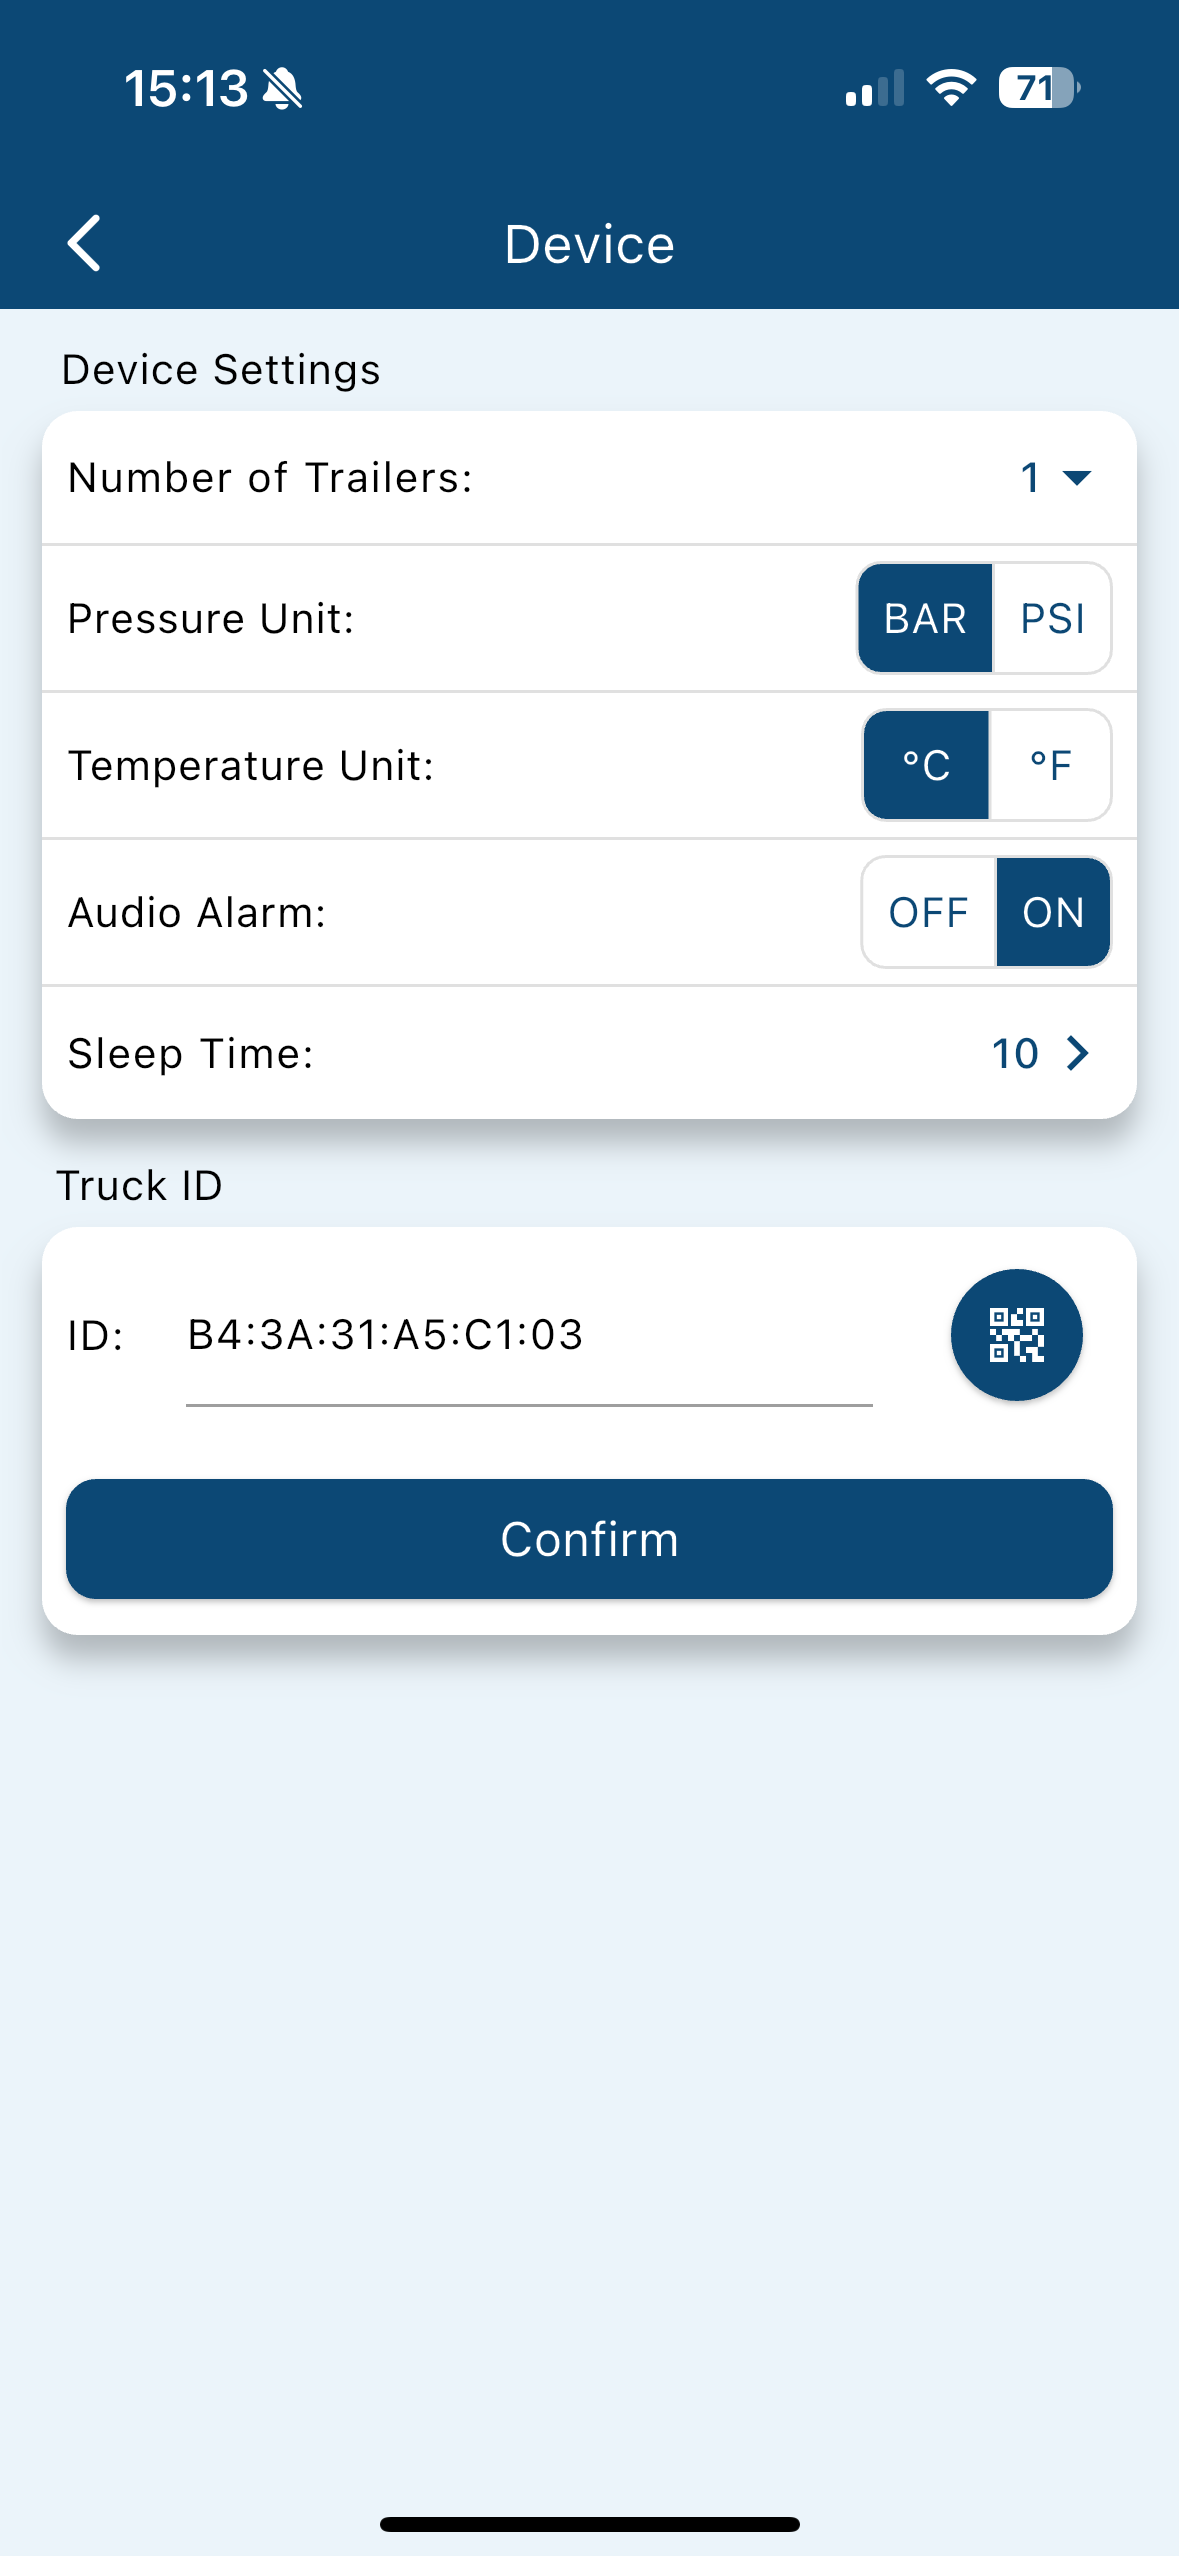
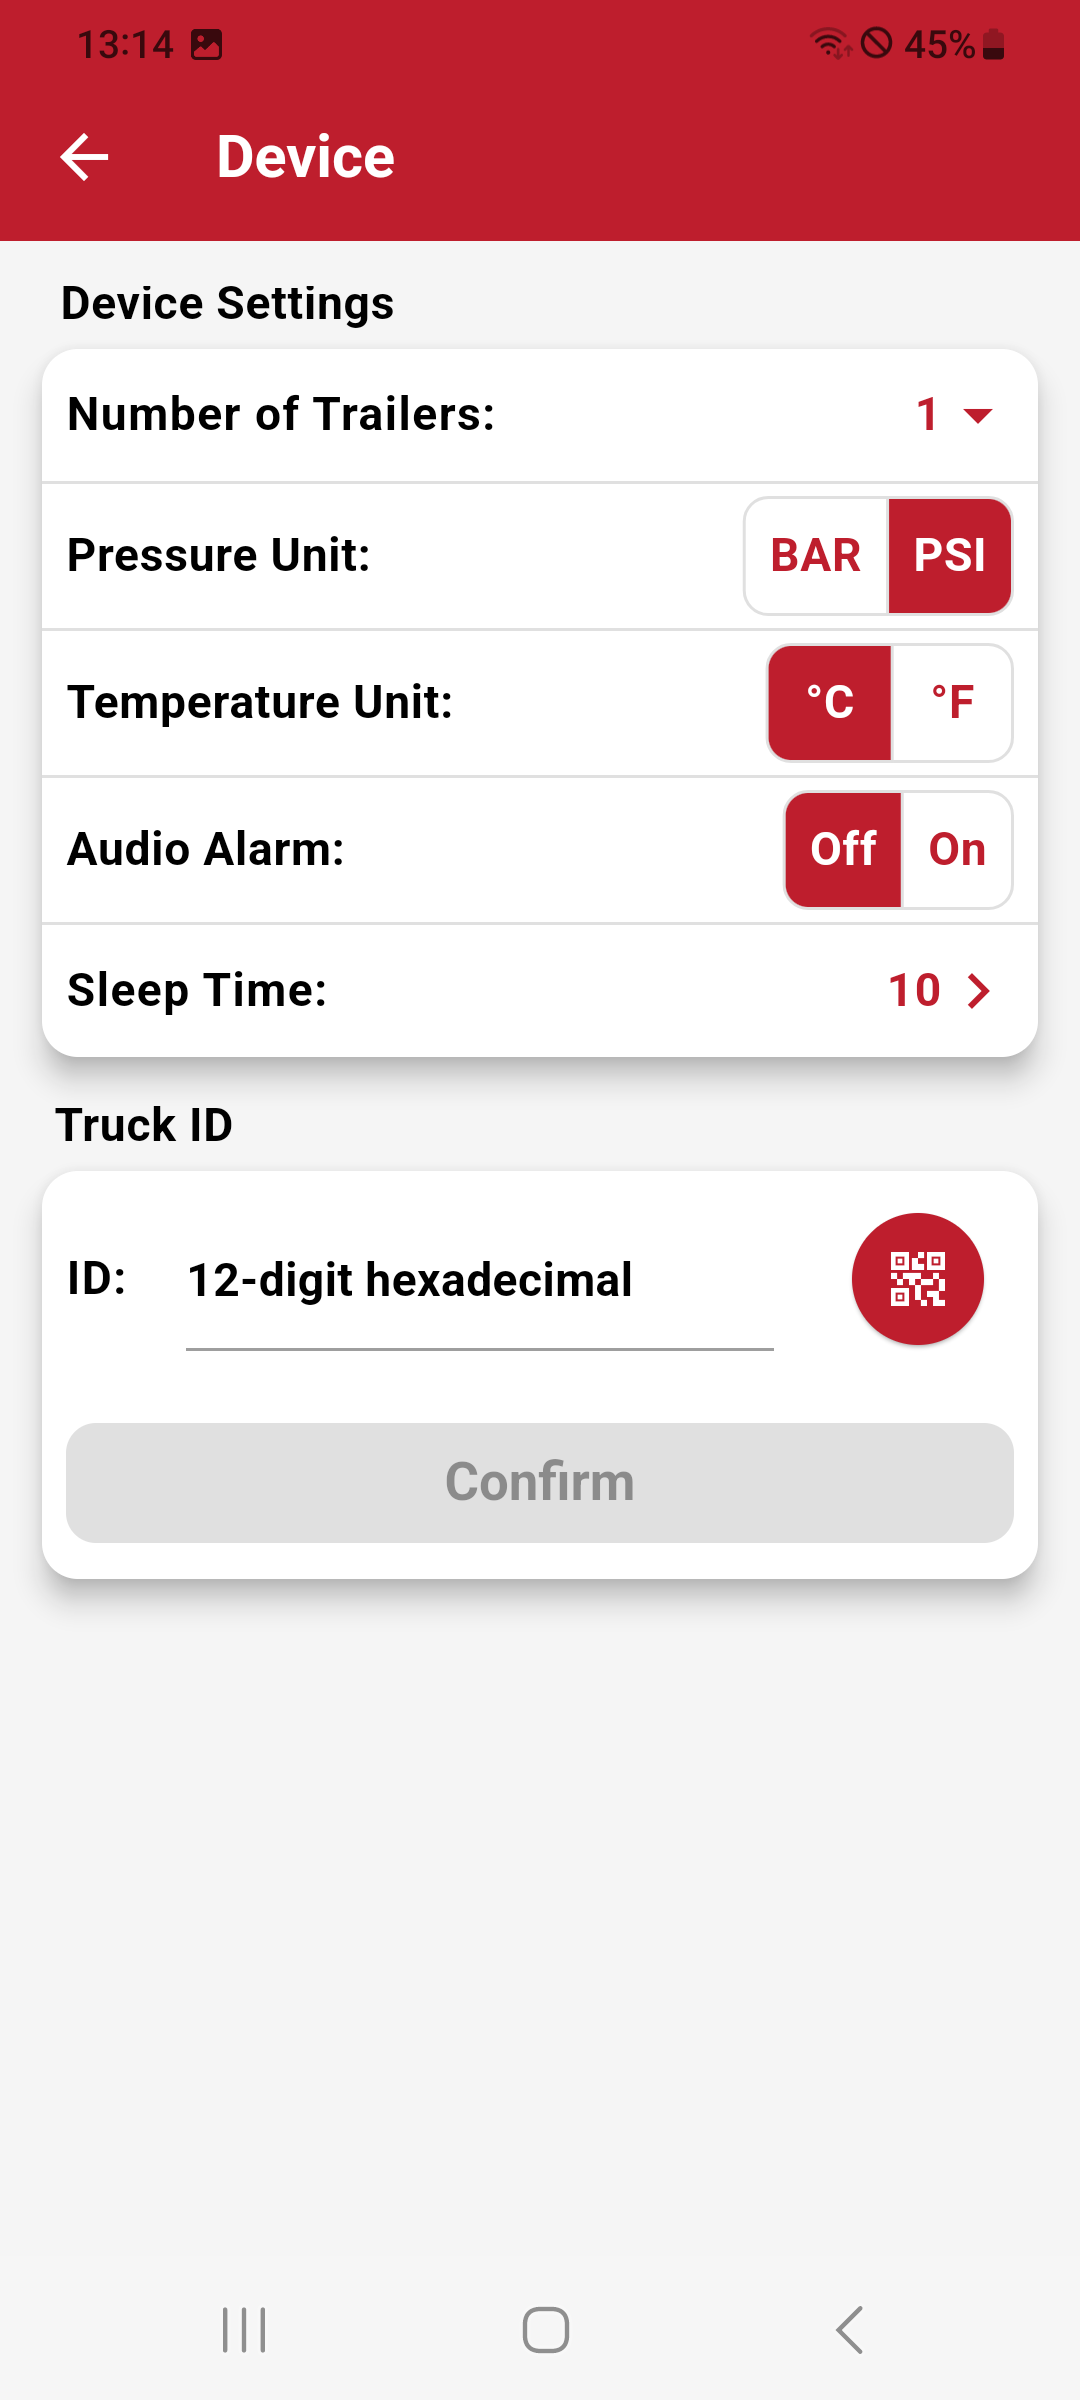
Tiresense pictures and colors

diff --git a/docs/styles/extra.css b/docs/styles/extra.css
@@ -5,5 +5,66 @@
 }
 
 :root {
-  --md-primary-fg-color:        #0C4875;
+  --md-primary-fg-color:        #bf1e2e;
+}
+
+/* Change input field underline color */
+.md-typeset input, .md-typeset textarea {
+    border-bottom: 2px solid #bf1e2e !important;
+}
+
+/* Force h1 color change */
+.md-typeset h1 {
+    color: #000000 !important;
+	font-weight: 500 !important; /* Stronger bold effect */
+}
+
+h1, h2, h3, h4, h5, h6 {
+  color: #bf1e2e; /* Headings  */
+}
+
+/* Add a separator only below main menu titles */
+.md-nav__item > label.md-nav__link:not(.md-nav__link--active) {
+    border-bottom: 1px solid #ccc !important; /* Gray separator */
+	color: #000000 !important; /* Adjust color if needed */
+}
+
+/* Increase the boldness of the active tab in the header */
+.md-tabs__item--active {
+    font-weight: 800 !important; /* Stronger bold effect */
+    color: #ffffff !important; /* Adjust color if needed */
+}
+
+.md-header__button.md-logo img {
+    height: 40px; /* Adjust based on your logo size */
+}
+
+
+/* Ensure the sidebar text is readable */
+.md-nav__link:hover  {
+  color: #bf1e2e !important;
+}
+
+/* Ensure the sidebar text is readable */
+.md-nav__link--active  {
+  font-weight: 800 !important; /* Stronger bold effect */
+}
+
+.md-nav__title {
+  color: #000000 !important;
+  border-bottom: 1px solid #ccc !important; /* Gray separator */
+}
+
+.md-nav__title[for="__drawer"][for="__drawer"] {
+  color: #ffffff !important;
+}
+
+.md-button:hover,
+.md-button--primary:hover {
+    background-color: #000000 !important; /* Change to your preferred hover color */
+    color: #ffffff !important; /* Ensure text color is readable */
+}
+
+.md-button {
+    border: 0px !important; /* Change this to your preferred border color */
 }

diff --git a/docs/vehicle-screen/vehicle-screen.md b/docs/vehicle-screen/vehicle-screen.md
@@ -56,6 +56,6 @@ If the device supports a Unfiltered mode, the following features are available:
 
 | **Vehicle Menu**       |**Setup not complete** (black tires)      |
 |:----------------------:|:----------------------:|
-| ![Vehicle Menu](images/vehicleMenu.PNG){width="200px"} |![Setup not complete](images/vehicleScreenNotDone.PNG){width="200px"} |
+| ![Vehicle Menu](images/vehicleMenu.PNG){width="200px" style="border: 1px solid black; border-radius: 30px; padding: 5px; background-color: #000;"} |![Setup not complete](images/vehicleScreenNotDone.PNG){width="200px" style="border: 1px solid black; border-radius: 30px; padding: 5px; background-color: #000;"} |
 | **Setup complete** (green tires)       |**Unfiltered Devices**       |
-| ![Setup complete](images/vehicleScreenDone.PNG){width="200px"} |![Unfiltered Devices](images/vehicleScreenUnfiltered.PNG){width="200px"} |
+| ![Setup complete](images/vehicleScreenDone.PNG){width="200px" style="border: 1px solid black; border-radius: 30px; padding: 5px; background-color: #000;"} |![Unfiltered Devices](images/vehicleScreenUnfiltered.PNG){width="200px" style="border: 1px solid black; border-radius: 30px; padding: 5px; background-color: #000;"} |

diff --git a/docs/monitor-screen.md b/docs/monitor-screen.md
@@ -62,6 +62,6 @@ This mode provides a raw, unstructured view of sensor data without vehicle-speci
 
 | **Filtered Device (all OK and Trailer)**       |**Filtered Device (warning)**     |
 |:----------------------:|:----------------------:|
-| ![iltered Device](images/monitorOk.PNG){width="200px"} |![Filtered Device 1](images/monitorWarning.PNG){width="200px"} |
+| ![iltered Device](images/monitorOk.PNG){width="200px" style="border: 1px solid black; border-radius: 30px; padding: 5px; background-color: #000;"} |![Filtered Device 1](images/monitorWarning.PNG){width="200px" style="border: 1px solid black; border-radius: 30px; padding: 5px; background-color: #000;"} |
 | **Tire Details**    |**Sensor List (unfiltered device)**       |
-| ![Tire Details](images/tireInfo.PNG){width="200px"} |![Sensor List](images/monitorUnfiltered.PNG){width="200px"} |
+| ![Tire Details](images/tireInfo.PNG){width="200px" style="border: 1px solid black; border-radius: 30px; padding: 5px; background-color: #000;"} |![Sensor List](images/monitorUnfiltered.PNG){width="200px" style="border: 1px solid black; border-radius: 30px; padding: 5px; background-color: #000;"} |

diff --git a/docs/index.md b/docs/index.md
@@ -3,16 +3,16 @@ pdf: true
 ---
 <!-- markdownlint-disable no-inline-html -->
 
-# NLP Control Center Manual
+# Tiresens Setup Manual
 
-The NLP Control Center app is designed to simplify the configuration, monitoring, and maintenance of TPMS (Tire Pressure Monitoring System) receivers and sensors.
+The **Tiresens Setup** app streamlines the configuration, monitoring, and maintenance of TPMS (Tire Pressure Monitoring System) receivers and sensors.
 
 ## Key Features
 
-- Detecting and connecting to nearby receivers via BLE.
-- Updating firmware and customizing settings.
-- Diagnosing device issues and viewing sensor details.
+- **Seamless Connectivity:** Detect and connect to nearby receivers via BLE.
+- **Effortless Updates:** Update firmware and customize device settings.
+- **Advanced Diagnostics:** Troubleshoot issues and access detailed sensor information.
 
-![App Screenshot](images/nlp_icon.png){ width="200px"}
+![App Screenshot](images/tiresens_sq.png){ width="200px"}
 
 <span class="page-break"></span>

diff --git a/docs/setup-screen/device.md b/docs/setup-screen/device.md
@@ -42,9 +42,10 @@ For CAN only:
 - **CAN Speed:** Selectable speeds of 250 kbps or 500 kbps, accommodating different CAN network standards.
 - **CAN Address:** Configurable CAN IDs to avoid conflicts and ensure proper communication in multi-device environments.
 
-## Device Name 
-- **Device Name:** Matching the unique identifier of the vehicle in the fleet.
+Device Name:
+
+- **Device Name:** Matching the unique identifier of the vehicle in the fleet
 
 | **Device Menu**       | **Trailer Menu**     |
 |:----------------------:|:--------------------:|
-| ![Update Menu](images/device_menu.PNG){width="200px"} | ![Confirm Update](images/trailer_menu.PNG){width="200px"} |
+| ![Update Menu](images/device_menu.PNG){width="200px" style="border: 1px solid black; border-radius: 30px; padding: 5px; background-color: #000;"} | ![Confirm Update](images/trailer_menu.PNG){width="200px" style="border: 1px solid black; border-radius: 30px; padding: 5px; background-color: #000;"} |

diff --git a/docs/inCabDisplay.md b/docs/inCabDisplay.md
@@ -56,4 +56,4 @@ After configuring the settings, the in-cab display must be linked to a truck rec
 
 | **In-Cab Display Device Name**       |**In-Cab Display Device Name**     |
 |:----------------------:|:----------------------:|
-| ![In-Cab Display Device Name](images/inCabName.PNG){width="200px"} |![In-Cab Display Device Name](images/inCabSettings.PNG){width="200px"} |
+| ![In-Cab Display Device Name](images/inCabName.PNG){width="200px" style="border: 1px solid black; border-radius: 30px; padding: 5px; background-color: #000;"} |![In-Cab Display Device Name](images/inCabSettings.PNG){width="200px" style="border: 1px solid black; border-radius: 30px; padding: 5px; background-color: #000;"} |

diff --git a/docs/vehicle-screen/editVehicle.md b/docs/vehicle-screen/editVehicle.md
@@ -36,4 +36,4 @@ If the R141 Support setting is enabled, the available configurations are adjuste
 
 | **Select Vehicle Layout**       |**Set Warning Thresholds**      |
 |:----------------------:|:----------------------:|
-| ![Select Vehicle Layout](images/selectVehicleLayout.PNG){width="200px"} |![Set Warning Thresholds](images/setWarning.PNG){width="200px"} |
+| ![Select Vehicle Layout](images/selectVehicleLayout.PNG){width="200px" style="border: 1px solid black; border-radius: 30px; padding: 5px; background-color: #000;"} |![Set Warning Thresholds](images/setWarning.PNG){width="200px" style="border: 1px solid black; border-radius: 30px; padding: 5px; background-color: #000;"} |

diff --git a/docs/setup-screen/update.md b/docs/setup-screen/update.md
@@ -15,4 +15,4 @@ A red dot on the **Setup** or **Update Menu** icon indicates available firmware 
 
 | **Update Menu**       |**Update Available**       |
 |:----------------------:|:----------------------:|
-| ![Update Menu](images/update_menu.PNG){width="200px"} |![Update Available](images/updateAvailable.PNG){width="200px"} |
+| ![Update Menu](images/update_menu.PNG){width="200px" style="border: 1px solid black; border-radius: 30px; padding: 5px; background-color: #000;"} |![Update Available](images/updateAvailable.PNG){width="200px" style="border: 1px solid black; border-radius: 30px; padding: 5px; background-color: #000;"} |

diff --git a/docs/setup-screen/lockWithPin.md b/docs/setup-screen/lockWithPin.md
@@ -11,4 +11,4 @@ Secure your receiver by setting a 4-digit PIN:
   
 | **Locked Device**     |   |
 |:----------------------:|:--------------------:|
-| ![Locked Device 01](images/lockedDevice01.PNG){width="200px"} | ![Locked Device 02](images/lockedDevice02.PNG){width="200px"} |
+| ![Locked Device 01](images/lockedDevice01.PNG){width="200px" style="border: 1px solid black; border-radius: 30px; padding: 5px; background-color: #000;"} | ![Locked Device 02](images/lockedDevice02.PNG){width="200px" style="border: 1px solid black; border-radius: 30px; padding: 5px; background-color: #000;"} |

diff --git a/docs/setup-screen/appSettings.md b/docs/setup-screen/appSettings.md
@@ -1,6 +1,4 @@
----
-pdf: true
----
+
 # App Settings
 
 Customize your app preferences:
@@ -13,6 +11,4 @@ Customize your app preferences:
 
     Please talk to your distributor for details!
 
-| **App Settings Menu**       |
-|:----------------------:|
-| ![App Settings Menu](images/appSettings_menu.PNG){width="200px"} |
+![App Screenshot](images/appSettings_menu.PNG){ width="200px" style="border: 1px solid black; border-radius: 30px; padding: 5px; background-color: #000;"}

diff --git a/docs/vehicle-screen/odometer.md b/docs/vehicle-screen/odometer.md
@@ -19,4 +19,4 @@ Use the device's camera to scan the QR code associated with the odometer, allowi
 
 | **Odometer Setup Menu**       |
 |:----------------------:|
-| ![Odometer Setup Menu](images/odometer.PNG){width="200px"} |
+| ![Odometer Setup Menu](images/odometer.PNG){width="200px" style="border: 1px solid black; border-radius: 30px; padding: 5px; background-color: #000;"} |

diff --git a/docs/vehicle-screen/airline.md b/docs/vehicle-screen/airline.md
@@ -34,4 +34,4 @@ This allows the system to recognize the specific capabilities and features of th
 
 | **Airline Sensor Menu**       |
 |:----------------------:|
-| ![Airline Sensor Menu](images/airline.PNG){width="200px"} |
+| ![Airline Sensor Menu](images/airline.PNG){width="200px" style="border: 1px solid black; border-radius: 30px; padding: 5px; background-color: #000;"} |
